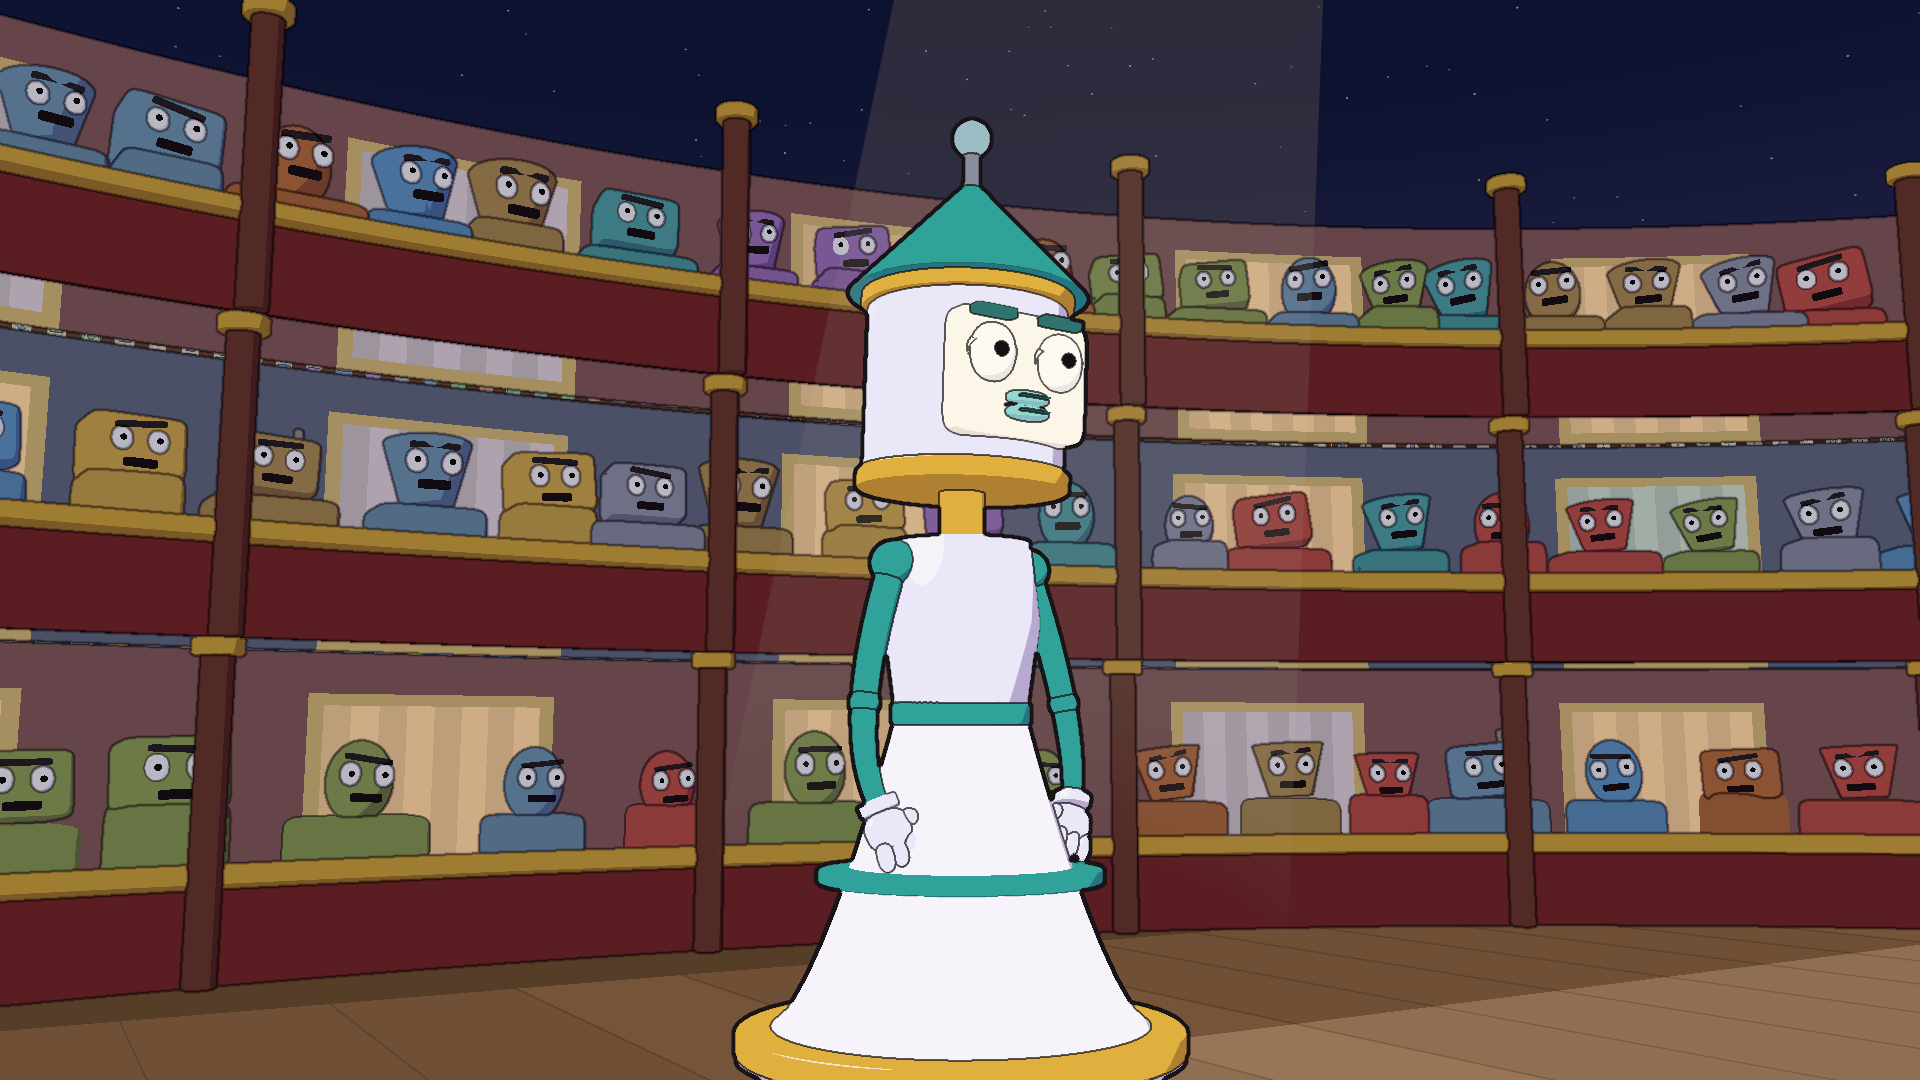
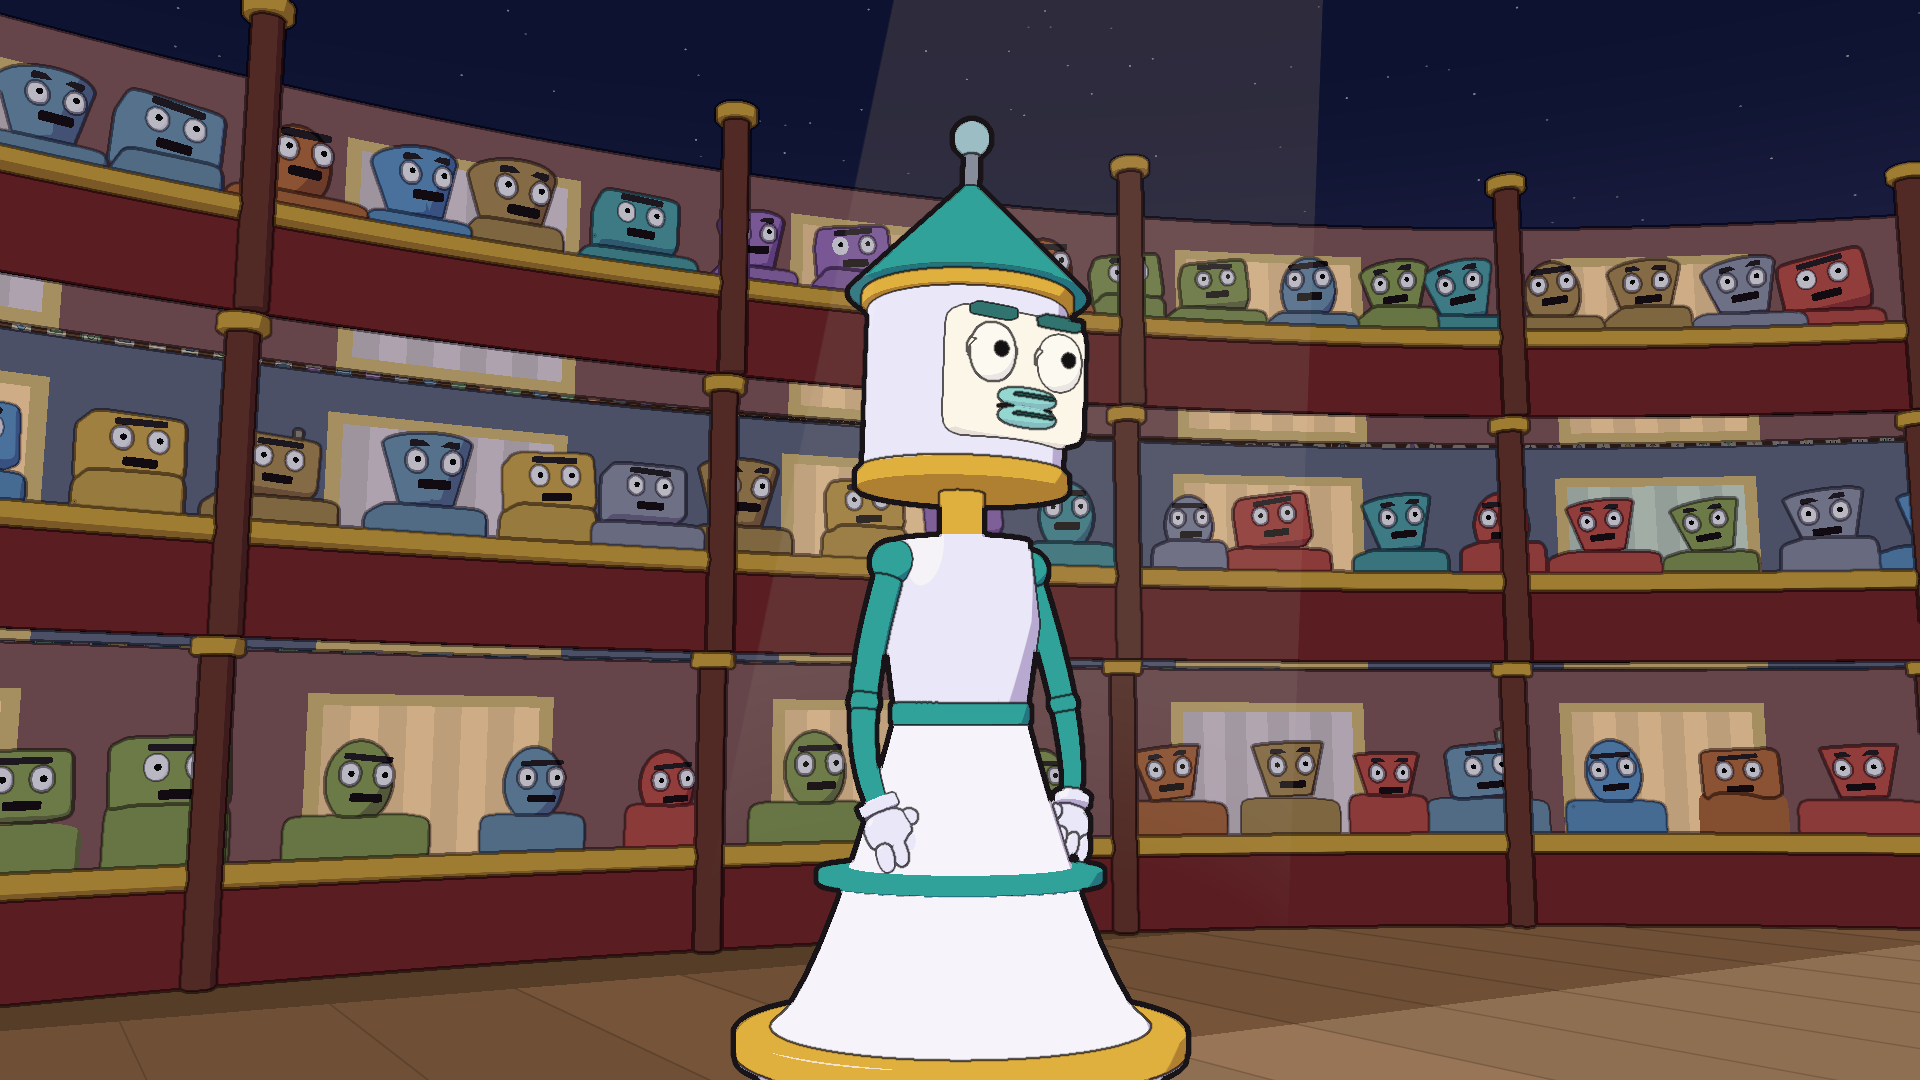
Question clip round 3: star payoff, crowd OTS and reaction, neck framing
- S6 payoff camera is solved from Aria's reaching hand so the drawn dream
  star sits just beyond her fingertips; push in on the held "me". Star is
  born on "dream", peaks at 1.6 on the reach and settles to 0.75 at 40.3.
- New shots: crowd reaction insert in awe (S3R) and an over-the-shoulder
  from the stalls (S5). S2 is near-frontal and S4 is a house-left 3/4
  close-up, so screen direction stays consistent with the S1 opening.
- Less head roll on the question keeps the neck pole visible.
- Crowd awe held to 1.0 from "dream" to the end of the held note.
- QA evidence replaced in qa/question (cut checks, payoff, contact sheet).

diff --git a/visuals/one-more-dawn/src/lib/clips/question.ts b/visuals/one-more-dawn/src/lib/clips/question.ts
@@ -4,18 +4,18 @@
 // it here; do not edit shared engine, cast or set files from a clip lane.
 //
 // Shot list (song seconds):
-//   S1 19.30–23.50  Low three-quarter medium from house left, pushing in.
-//                   The house hushes; Aria hops off her pedestal and glides
-//                   forward into her spot.
-//   S2 23.50–27.94  Three-quarter medium close-up. "A question came to me":
-//                   hand to chin, then hand to chest on "me".
-//   S3 27.94–32.90  Low-angle wide. "If we can dream of everything": arms
-//                   open on "dream" and the camera tilts up into the stars.
-//   S4 32.90–34.90  Frontal medium close-up. "Why can't I": hands to heart.
-//   S5 34.90–37.45  Close profile from house right. "dream a dream": she turns
-//                   upstage and finds the dream star above the sleeping house.
-//   S6 37.45–40.30  Low-angle hero shot, push-in on the held "me": she turns
-//                   back and reaches for the star. Held tableau at the end.
+//   S1  19.30–23.50  Low three-quarter medium from house left, pushing in;
+//                    she faces screen right. She hops off the pedestal.
+//   S2  23.50–27.94  Near-frontal medium close-up, "a question came to me".
+//   S3  27.94–30.75  Low-angle wide; arms open on "dream", the dream star
+//                    is born small in the sky.
+//   S3R 30.75–32.90  Reaction insert: the house in awe, looking up.
+//   S4  32.90–34.76  Three-quarter close-up from house left, "why can't I".
+//   S5  34.76–37.45  Over a stalls spectator's head: she lifts her eyes to
+//                    the star above her.
+//   S6  37.45–40.30  Payoff: camera solved from her reaching hand so the
+//                    star sits just beyond her fingertips; push in on the
+//                    held "me", then settle for the hand-off.
 
 import { Color, Vector3, type PerspectiveCamera } from 'three/webgpu';
 import { applyPose, blankPose, copyPose, type Pose, type Rig, type V3 } from '../rig.ts';
@@ -70,9 +70,11 @@ function ariaActing(t: number, p: Pose): void {
   p.lift += 0.03 * Math.sin(t * 1.4) * ramp(t, 22.2, 23.2);
 
   // --- Facing: front, a turn upstage to find the star, back to the house.
+  // On "dream a dream" she turns three-quarters to house right and lifts
+  // her eyes to the star; then back to the front for the reach.
   const turnAway = ramp(t, WORD.dream2 - 0.05, WORD.dream2 + 0.8, backOut);
-  const turnBack = ramp(t, 36.85, 37.75, smooth);
-  p.yaw = 1.1 * turnAway * (1 - turnBack) + Math.sin(t * 0.7) * 0.03 * ramp(t, 22.4, 23.0);
+  const turnBack = ramp(t, 36.95, 37.85, smooth);
+  p.yaw = 0.45 * turnAway * (1 - turnBack) + Math.sin(t * 0.7) * 0.03 * ramp(t, 22.4, 23.0);
   p.yaw += span(t, WORD.dream1, WORD.everythingEnd + 0.6, 0.8, 1.0) * 0.12 * Math.sin((t - WORD.dream1) * 1.3);
 
   // --- Hands.
@@ -155,7 +157,7 @@ function ariaActing(t: number, p: Pose): void {
   p.headYaw = scan * Math.sin((t - 20.8) * 1.5) * 0.35;
   p.headPitch = scan * 0.04;
   // Question: tilt, eyes up and to the side.
-  p.headRoll = think * 0.22 - toChest * 0.12 + Math.sin(t * 0.9) * 0.03;
+  p.headRoll = think * 0.14 - toChest * 0.08 + Math.sin(t * 0.9) * 0.03;
   p.headYaw += think * 0.18 - toChest * 0.1;
   p.headPitch -= think * 0.08;
   // Dream: chin up to the stars.
@@ -165,8 +167,8 @@ function ariaActing(t: number, p: Pose): void {
   p.headPitch += wistful * 0.14;
   p.headRoll += wistful * -0.1;
   const findStar = span(t, WORD.dream2, WORD.forW, 0.5, 0.6);
-  p.headPitch -= findStar * 0.28 + reach * 0.22;
-  p.headYaw += findStar * 0.5 * (1 - turnBack) + reach * 0.15;
+  p.headPitch -= findStar * 0.3 + reach * 0.22;
+  p.headYaw += findStar * 0.2 * (1 - turnBack) + reach * 0.12;
 
   p.lookX = p.headYaw * 0.5 + think * 0.5;
   p.lookY = think * 0.7 + wide * 0.5 + settle * 0.6 + findStar * 0.6 + reach * 0.8 - wistful * 0.4;
@@ -190,7 +192,7 @@ function ariaActing(t: number, p: Pose): void {
   // Positive browTilt lifts the inner ends (worried, yearning).
   p.browTilt = 0.1 * thinkFace + 0.1 * wonder + 0.8 * yearn + 0.2 * found + 0.5 * held;
   // Extra head tilt on the question and a lift into the held note.
-  p.headRoll += thinkFace * 0.12 + held * Math.sin((t - WORD.forW) * 0.9) * 0.06;
+  p.headRoll += thinkFace * 0.06 + held * Math.sin((t - WORD.forW) * 0.9) * 0.06;
   p.lid = Math.max(0, p.lid - wonder * 0.14 + thinkFace * 0.08 + yearn * 0.06 - found * 0.14 + held * 0.32);
   p.lookY -= held * 0.3;
 
@@ -236,40 +238,84 @@ function aim(c: V3, az: number, el: number): V3 {
 
 const S3A: V3 = [0.6, 1.7, 4.9];
 const S3B: V3 = [0.9, 0.65, 5.6];
-const S5A: V3 = [1.15, 2.2, 3.9];
-const S5B: V3 = [1.05, 2.18, 3.55];
-const S6A: V3 = [1.15, 0.9, 7.0];
-const S6B: V3 = [0.95, 0.95, 5.7];
+// Crowd reaction: on the stage, looking up into the house-left balconies.
+const SRA: V3 = [0.9, 2.2, -2.0];
+const SRB: V3 = [0.75, 2.05, -2.35];
+// Over the shoulder of a spectator in the stalls; the star rises above her.
+const SOA: V3 = [-0.2, -0.05, 7.4];
+const SOB: V3 = [-0.17, -0.03, 7.28];
 
 const SHOTS: Shot[] = [
   // S1: the hush; push in as she comes forward.
-  // Three-quarter from house left, slightly low, so it cuts cleanly from
-  // the frontal tableau that ends the awakening clip.
-  { a: START, b: 23.5, p0: [-2.5, 1.35, 3.1], l0: [0, 1.95, -1.0], p1: [-1.7, 1.6, 4.25], l1: [0.15, 2.0, 0.75] },
-  // S2: the question, three-quarter medium close-up from house right.
-  { a: 23.5, b: WORD.ifWe, p0: [1.15, 2.1, 4.3], l0: [0.35, 2.0, 0.9], p1: [0.9, 2.08, 3.75], l1: [0.3, 2.05, 0.9] },
+  // Three-quarter from house left, slightly low; she faces screen right.
+  { a: START, b: 23.5, p0: [-2.5, 1.35, 3.1], l0: [0, 1.95, -1.0], p1: [-1.7, 1.6, 4.25], l1: [0.55, 2.0, 0.75] },
+  // S2: the question, near-frontal medium close-up just below eye level.
+  { a: 23.5, b: WORD.ifWe, p0: [0.55, 1.9, 4.2], l0: [0.15, 2.05, 0.9], p1: [0.45, 1.92, 3.7], l1: [0.12, 2.08, 0.9] },
   // S3: boom down from eye level to a low angle as her arms open; the
-  // stars fill the top of frame.
-  { a: WORD.ifWe, b: 32.9, p0: S3A, l0: [0.2, 1.9, 0], p1: S3B, l1: aim(S3B, -2, 14), ease: (u: number) => ramp(u, 0.12, 0.62) },
-  // S4: frontal medium close-up, hands to heart.
-  { a: 32.9, b: 34.9, p0: [0.15, 1.85, 3.7], l0: [0.0, 1.95, 0.9], p1: [0.12, 1.88, 3.3], l1: [0.0, 2.0, 0.9] },
-  // S5: close from house right; in profile she finds the star over the
-  // sleeping house.
-  { a: 34.9, b: 37.45, p0: S5A, l0: aim(S5A, -8, 7), p1: S5B, l1: aim(S5B, -8, 8.5) },
-  // S6: hero low angle, Aria left third, star right third; push in on the
-  // held note.
-  { a: 37.45, b: END, p0: S6A, l0: aim(S6A, -3.5, 12), p1: S6B, l1: aim(S6B, -3.5, 13.5) },
+  // stars fill the top of frame and the dream star is born.
+  { a: WORD.ifWe, b: 30.75, p0: S3A, l0: [0.2, 1.9, 0], p1: S3B, l1: aim(S3B, -1, 15), ease: (u: number) => ramp(u, 0.1, 0.7) },
+  // S3R: reaction insert, the house in awe looking up at the sky.
+  { a: 30.75, b: 32.9, p0: SRA, l0: aim(SRA, -38, 9), p1: SRB, l1: aim(SRB, -36, 11) },
+  // S4: three-quarter close-up from house left, hands to heart.
+  { a: 32.9, b: WORD.dream2, p0: [-1.15, 2.05, 3.25], l0: [0.05, 2.22, 0.9], p1: [-1.0, 2.07, 2.95], l1: [0.05, 2.24, 0.9] },
+  // S5: from the stalls, over a spectator's head; she turns and lifts
+  // her eyes to the star, which sits above her in frame.
+  { a: WORD.dream2, b: 37.45, p0: SOA, l0: aim(SOA, 4, 9), p1: SOB, l1: aim(SOB, 4, 10) },
+  // S6 (payoff) is solved from her reaching hand, see payoffCam().
 ];
+const PAYOFF = 37.45;
 
 const camPos = new Vector3();
 const camLook = new Vector3();
 
+// The dream star's sky direction (stage.ts) as azimuth/elevation degrees.
+const STAR_AZ = (Math.atan2(0.16, 1) * 180) / Math.PI;
+const STAR_EL = (Math.atan2(0.42, Math.hypot(0.16, 1)) * 180) / Math.PI;
+// Where the fingertips sit relative to the star (degrees, camera view):
+// just below and left of it, along the line of her arm.
+const TIP_DAZ = -2.8;
+const TIP_DEL = -6.6;
+
+// Reaching hand (world) at the peak of the reach; the payoff camera is
+// solved from it so the star sits just beyond her fingertips.
+const handRef = new Vector3();
+let handRefReady = false;
+const refBase = blankPose();
+const refPose = blankPose();
+const REF_T = 39.35;
+
+function solveHandRef(rig: Rig): void {
+  ariaPose(REF_T, rig, refBase);
+  copyPose(refBase, refPose);
+  ariaActing(REF_T, refPose);
+  applyPose(rig, refPose);
+  rig.root.updateWorldMatrix(true, true);
+  rig.hands[1].getWorldPosition(handRef);
+  handRefReady = true;
+}
+
+function payoffCam(t: number): void {
+  // Push in from a low medium to a close two-shot of face, hand and star.
+  const u = ramp(t, PAYOFF, 39.7, smooth);
+  const d = lerp(6.6, 3.0, u);
+  const az = ((STAR_AZ + TIP_DAZ) * Math.PI) / 180;
+  const el = ((STAR_EL + TIP_DEL) * Math.PI) / 180;
+  camPos.set(handRef.x - Math.sin(az) * Math.cos(el) * d, handRef.y - Math.sin(el) * d, handRef.z + Math.cos(az) * Math.cos(el) * d);
+  // Frame centre: between her face and the star.
+  const look = aim([camPos.x, camPos.y, camPos.z], STAR_AZ - 3, lerp(14, 13, u));
+  camLook.set(look[0], look[1], look[2]);
+}
+
 function shoot(t: number, cam: PerspectiveCamera): void {
-  const s = SHOTS.find(x => t < x.b) ?? SHOTS[SHOTS.length - 1];
-  const raw = clamp01((t - s.a) / (s.b - s.a));
-  const u = s.ease ? s.ease(raw) : smooth(raw);
-  camPos.set(lerp(s.p0[0], s.p1[0], u), lerp(s.p0[1], s.p1[1], u), lerp(s.p0[2], s.p1[2], u));
-  camLook.set(lerp(s.l0[0], s.l1[0], u), lerp(s.l0[1], s.l1[1], u), lerp(s.l0[2], s.l1[2], u));
+  if (t >= PAYOFF && handRefReady) {
+    payoffCam(t);
+  } else {
+    const s = SHOTS.find(x => t < x.b) ?? SHOTS[SHOTS.length - 1];
+    const raw = clamp01((t - s.a) / (s.b - s.a));
+    const u = s.ease ? s.ease(raw) : smooth(raw);
+    camPos.set(lerp(s.p0[0], s.p1[0], u), lerp(s.p0[1], s.p1[1], u), lerp(s.p0[2], s.p1[2], u));
+    camLook.set(lerp(s.l0[0], s.l1[0], u), lerp(s.l0[1], s.l1[1], u), lerp(s.l0[2], s.l1[2], u));
+  }
   // Gentle hand-held drift, smaller on the close shots.
   const near = camPos.distanceTo(camLook) < 4.5 ? 0.5 : 1;
   camPos.x += noise1(t * 0.25, 1) * 0.04 * near;
@@ -296,9 +342,13 @@ function cueLights(t: number, edge: number): void {
   const stars = keys(t, [[START, 0.25], [WORD.dream1 - 0.1, 0.3], [WORD.dream1 + 1.4, 1.35], [END, 1.35]]);
   // The flare peaks on the held "me" and comes down to the level the next
   // clip keeps in the sky (0.75), so the cut at 40.3 matches.
-  const star = keys(t, [[START, 0], [WORD.dream2, 0], [WORD.dream2 + 0.9, 0.75], [WORD.me2, 0.9], [WORD.me2 + 0.7, 1.4], [END - 1.0, 1.25], [END - 0.5, 0.9], [END, 0.75]]);
+  // Born small on the first "dream", found on "dream a dream", peaks at
+  // the reach on the held "me" (sized for the payoff framing).
+  const star = keys(t, [[START, 0], [WORD.dream1 - 0.05, 0], [WORD.dream1 + 0.6, 0.4], [WORD.everythingEnd, 0.55], [WORD.dream2, 0.6], [WORD.dream2 + 0.9, 0.9], [WORD.me2, 1.05], [WORD.me2 + 0.6, 1.6], [END - 0.75, 1.6], [END - 0.3, 0.85], [END, 0.75]]);
   set.starLevel.value = lerp(dStars, stars, edge);
   set.dreamStar.value = star;
+  // The house is in awe from the first "dream" to the end of the held note.
+  set.crowdAwe = Math.max(set.crowdAwe, lerp(0, span(t, WORD.dream1 - 0.3, END + 2, 0.6, 0.5), edge));
   // The house watches the dream rapt: eyes wide, heads and pupils lifted
   // toward the star from "dream" to the end of the held note.
   const rapt = span(t, WORD.dream1 - 0.6, END + 2, 0.9, 0.5);
@@ -323,6 +373,9 @@ export const clip = {
   end: END,
   frame(t: number, cast: Cast, cam: PerspectiveCamera): void {
     defaultFrame(t, cast, cam);
+    if (!handRefReady) {
+      solveHandRef(cast.aria);
+    }
     // Hand-off weight: 0 in the first/last 0.25 s, 1 inside.
     const edge = ramp(t, START + 0.25, START + 0.45) * (1 - ramp(t, END - 0.6, END - 0.25));
     const rig = cast.aria;
